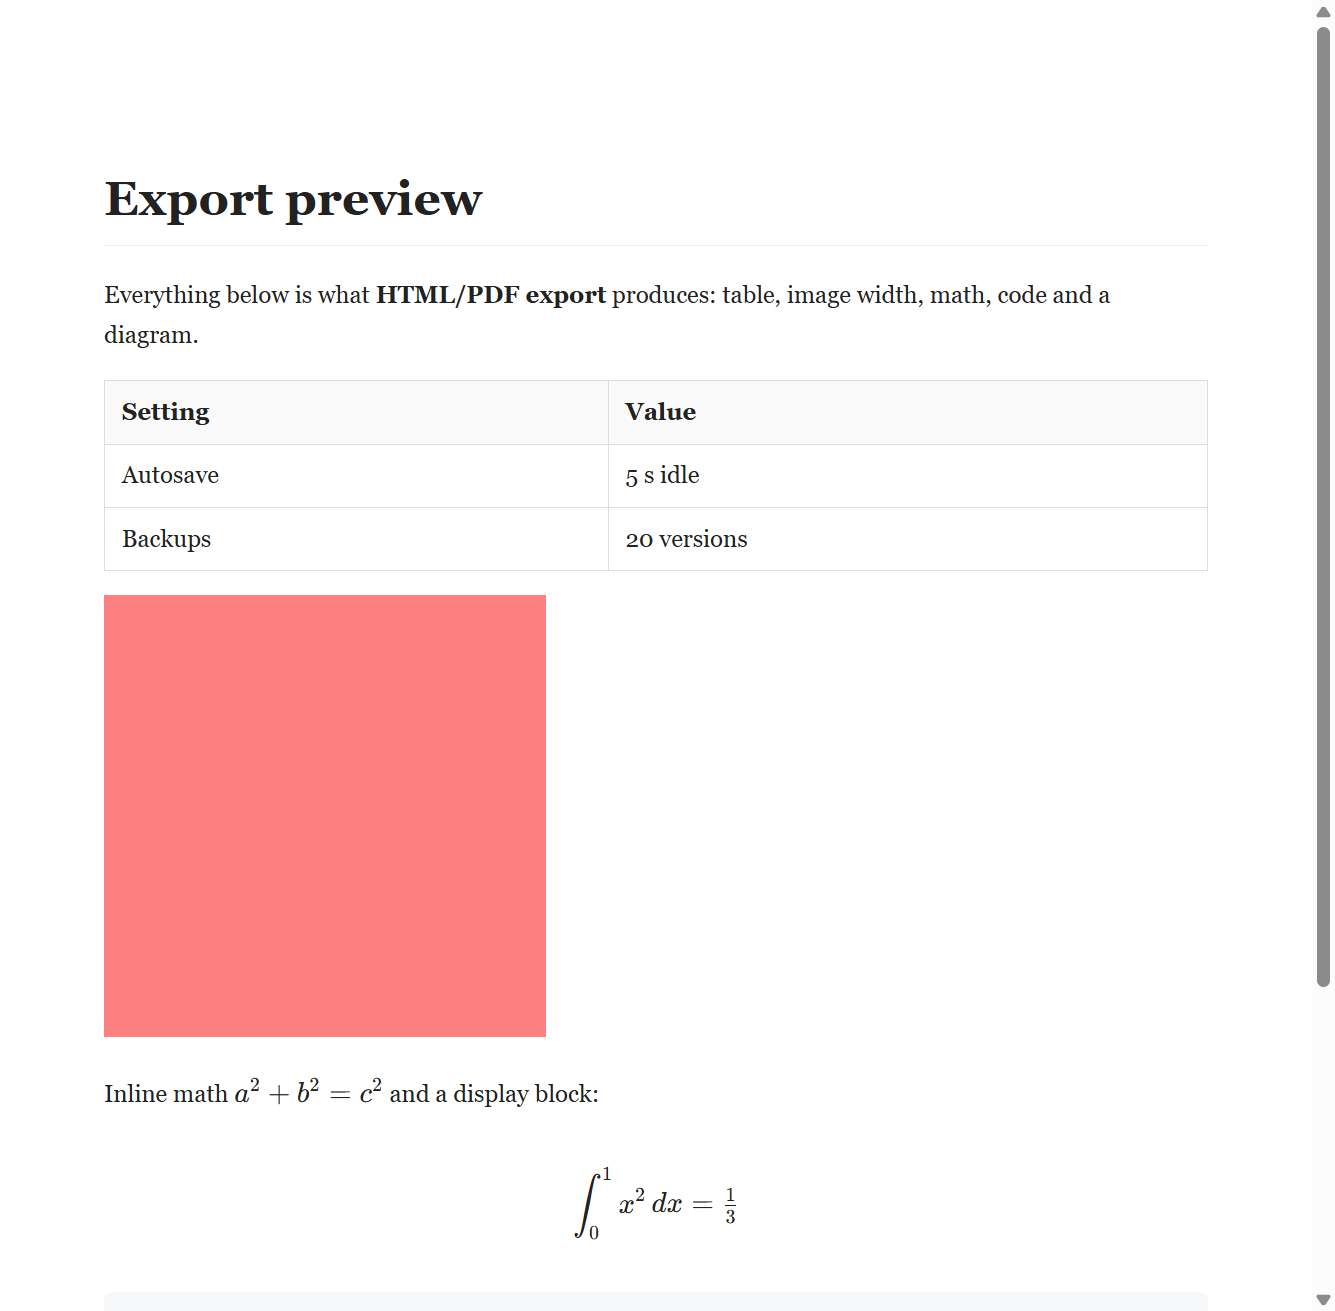
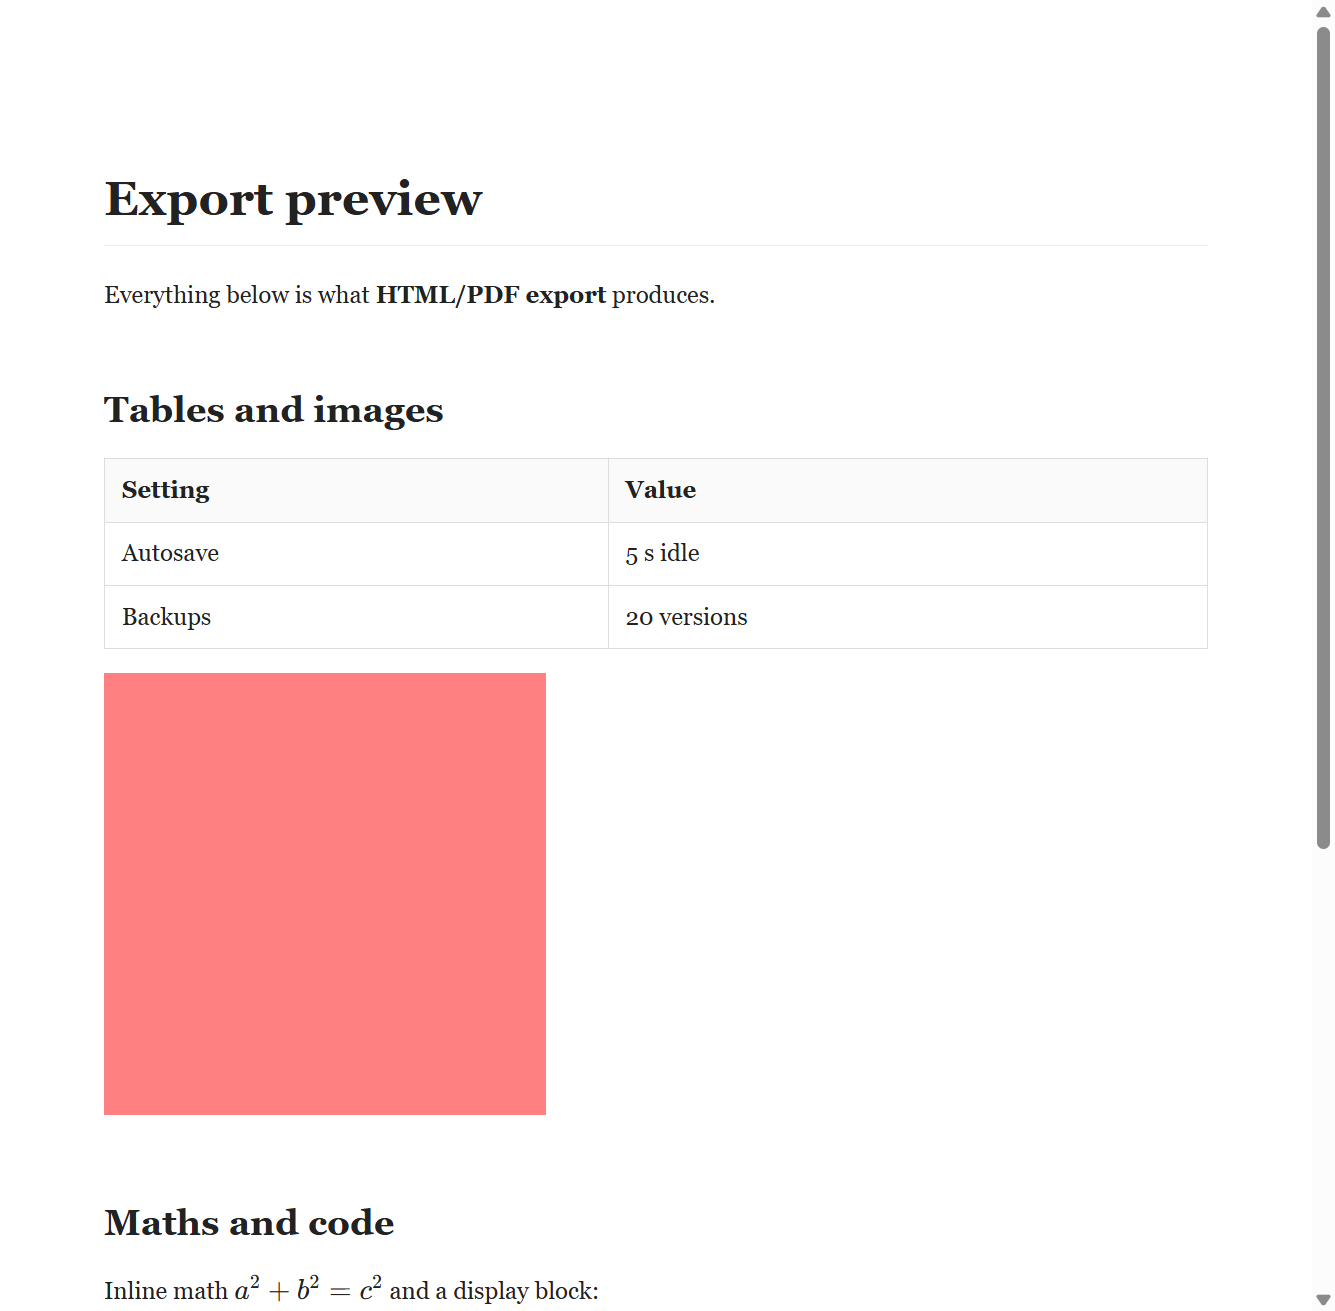
chore: release 1.54.0

diff --git a/scripts/shot-export.js b/scripts/shot-export.js
@@ -17,7 +17,9 @@ const image =
 const markdown = [
   '# Export preview',
   '',
-  'Everything below is what **HTML/PDF export** produces: table, image width, math, code and a diagram.',
+  'Everything below is what **HTML/PDF export** produces.',
+  '',
+  '## Tables and images',
   '',
   '| Setting | Value |',
   '| --- | --- |',
@@ -25,6 +27,8 @@ const markdown = [
   '| Backups | 20 versions |',
   '',
   '![pixel](' + image + ' "w=40%")',
+  '',
+  '## Maths and code',
   '',
   'Inline math $a^2 + b^2 = c^2$ and a display block:',
   '',
@@ -36,34 +40,56 @@ const markdown = [
   'const saved = writeDocument(file, contents);',
   fence,
   '',
+  '### A note on diagrams',
+  '',
   fence + 'mermaid',
   'graph LR;',
   '  write-->backup;',
   '  backup-->restore;',
   fence,
+    
 ].join('\n');
+
+// Mermaid cannot run here (no renderer bundle), so diagrams are documented by their fence in
+// these shots; the export test asserts the SVG path with a running app.
+async function capture(win, html, name, outDir) {
+  const file = path.join(os.tmpdir(), 'mdpad-export-' + name + '.html');
+  fs.writeFileSync(file, html, 'utf8');
+  await win.loadURL('file://' + file.replace(/\\/g, '/'));
+  await new Promise((resolve) => setTimeout(resolve, 600));
+  const image = await win.webContents.capturePage();
+  fs.writeFileSync(path.join(outDir, name), image.toPNG());
+  console.log('SHOT ' + name);
+}
 
 async function main() {
   const outDir = path.join(root, 'docs', 'images');
   fs.mkdirSync(outDir, { recursive: true });
+  const win = new BrowserWindow({ show: false, width: 900, height: 1200, webPreferences: { offscreen: false } });
 
-  // Mermaid cannot run here (no renderer bundle), so the diagram is documented by its fence in
-  // this shot; the export test asserts the SVG path with a running app.
   const html = exporter.toHtmlDocument(markdown, 'Export preview', {
     template: 'default',
     css: '',
     font: 'Georgia, "Noto Serif", serif',
     margin: 'normal',
   });
-  const file = path.join(os.tmpdir(), 'mdpad-export-shot.html');
-  fs.writeFileSync(file, html, 'utf8');
+  await capture(win, html, '10-export-page.png', outDir);
 
-  const win = new BrowserWindow({ show: false, width: 900, height: 1200, webPreferences: { offscreen: false } });
-  await win.loadURL('file://' + file.replace(/\\/g, '/'));
-  await new Promise((resolve) => setTimeout(resolve, 600));
-  const image2 = await win.webContents.capturePage();
-  fs.writeFileSync(path.join(outDir, '10-export-page.png'), image2.toPNG());
-  console.log('SHOT 10-export-page.png');
+  const tocHtml = exporter.toHtmlDocument(markdown, 'Export preview', {
+    template: 'toc',
+    css: '',
+    font: 'Georgia, "Noto Serif", serif',
+    margin: 'normal',
+  });
+  await capture(win, tocHtml, '11-export-toc.png', outDir);
+
+  const compactHtml = exporter.toHtmlDocument(markdown, 'Export preview', {
+    template: 'compact',
+    css: '',
+    font: 'Georgia, "Noto Serif", serif',
+    margin: 'narrow',
+  });
+  await capture(win, compactHtml, '12-export-compact.png', outDir);
   app.exit(0);
 }
 

diff --git a/src/main.js b/src/main.js
@@ -1082,6 +1082,7 @@ class Session {
         font: exportFontStack(),
         margin: readSettings().exportMargin || 'normal',
         baseDir: this.file ? path.dirname(this.file) : null,
+        tocTitle: t('export.contents', currentLang()),
       }),
       'utf8'
     );
@@ -10569,6 +10570,53 @@ async function runSmoke() {
       multiWindow.firstWindow.lang === 'zh-CN' &&
       typeof multiWindow.stillAlive === 'string',
     multiWindow
+  );
+
+  // 128. the TOC template links every heading and the title follows the UI language
+  const tocCheck = await (async () => {
+    const nl = String.fromCharCode(10);
+    const md = [
+      '# Book',
+      '',
+      '## First part',
+      '',
+      'text',
+      '',
+      '### Detail',
+      '',
+      'text',
+      '',
+      '## Second part',
+    ].join(nl);
+    const tocFile = path.join(dir, 'toc-source.md');
+    fs.writeFileSync(tocFile, md, 'utf8');
+    const session = sessions.get(win.webContents.id);
+    await session.loadDocument(tocFile);
+    await sleep(600);
+    session.contents = md;
+    // the export uses the saved template setting; switch it to toc for this check
+    await win.webContents.executeJavaScript("window.api.setSettings({ exportTemplate: 'toc' })");
+    await sleep(300);
+    const htmlPath = path.join(dir, 'toc.html');
+    await session.exportTo(htmlPath, 'html');
+    const html = fs.readFileSync(htmlPath, 'utf8');
+    await win.webContents.executeJavaScript("window.api.setSettings({ exportTemplate: 'default' })");
+    const hrefs = [...html.matchAll(/<a href="#([^"]+)"/g)].map((m) => m[1]);
+    const ids = [...html.matchAll(/<h[1-6] id="([^"]+)"/g)].map((m) => m[1]);
+    return {
+      hrefs,
+      ids,
+      title: (/<div class="toc-title">([^<]*)<\/div>/.exec(html) || [])[1] || '',
+      depths: [...html.matchAll(/<li class="toc-depth-(\d)"/g)].map((m) => m[1]),
+    };
+  })();
+  step(
+    'toc-template',
+    tocCheck.hrefs.length === 4 &&
+      tocCheck.hrefs.every((id) => tocCheck.ids.includes(id)) &&
+      tocCheck.title === 'Contents' &&
+      tocCheck.depths.join(',') === '1,2,3,2',
+    tocCheck
   );
 
   // 30k. the settings filter narrows the visible fields

diff --git a/src/exporter.js b/src/exporter.js
@@ -46,6 +46,7 @@ const TEMPLATE_CSS = `
 .toc-depth-3 { padding-left: 2rem; }
 .toc-depth-4, .toc-depth-5, .toc-depth-6 { padding-left: 3rem; }
 .toc a { color: #0b67c2; text-decoration: none; }
+.toc a:hover, .toc a:focus-visible { text-decoration: underline; }
 body[data-template="compact"] { padding: 1.6rem 1.2rem; font-size: 15px; line-height: 1.55; }
 body[data-template="compact"] h1, body[data-template="compact"] h2,
 body[data-template="compact"] h3 { margin: 1.2em 0 .4em; }
@@ -67,7 +68,7 @@ const escapeHtml = (s) =>
 const renderBody = (markdown, diagrams = null) => renderHtml(markdown, { diagrams });
 
 // Table of contents for the export templates; heading ids come from the renderer.
-function tocHtml(markdown) {
+function tocHtml(markdown, title = 'Contents') {
   const items = outline(markdown);
   if (!items.length) return '';
   const links = items
@@ -76,7 +77,7 @@ function tocHtml(markdown) {
         `<li class="toc-depth-${item.depth}"><a href="#${item.id}">${escapeHtml(item.text)}</a></li>`
     )
     .join('\n');
-  return `<nav class="toc"><div class="toc-title">Contents</div><ul>\n${links}\n</ul></nav>`;
+  return `<nav class="toc"><div class="toc-title">${escapeHtml(title)}</div><ul>\n${links}\n</ul></nav>`;
 }
 
 function sanitizeCss(css) {
@@ -89,9 +90,9 @@ function sanitizeCss(css) {
 function toHtmlDocument(
   markdown,
   title = 'Untitled',
-  { template = 'default', css = '', stats = null, diagrams = null, font = '', margin = 'normal', baseDir = null } = {}
+  { template = 'default', css = '', stats = null, diagrams = null, font = '', margin = 'normal', baseDir = null, tocTitle = 'Contents' } = {}
 ) {
-  const withToc = template === 'toc' ? tocHtml(markdown) : '';
+  const withToc = template === 'toc' ? tocHtml(markdown, tocTitle) : '';
   const html = `<!doctype html>
 <html lang="en">
 <head>

diff --git a/src/i18n.js b/src/i18n.js
@@ -1170,3 +1170,6 @@ Object.assign(DICT.zh, {
   'table.alignCenter': '居中',
   'table.alignRight': '右对齐',
 });
+
+Object.assign(DICT.en, { 'export.contents': 'Contents' });
+Object.assign(DICT.zh, { 'export.contents': '目录' });

diff --git a/docs/DEVELOPING.md b/docs/DEVELOPING.md
@@ -61,7 +61,7 @@ npm install            # deps + vendor assets
 npm start              # build renderer, open the window
 npm run dev            # esbuild --watch
 npm test               # 142 unit tests, no Electron
-npm run smoke          # 295 end-to-end checks against a real window
+npm run smoke          # 296 end-to-end checks against a real window
 npm run crash          # SIGKILL mid-edit, restart, verify draft recovery
 npm run restart-check  # clean quit, relaunch, verify windows/tabs came back
 npm run dist           # NSIS installer + portable exe
@@ -271,6 +271,18 @@ pattern carries a negative lookbehind so it does not swallow the closing `**` of
 guard (`looksLikeMarkdown`) parses a pasted block only on a strong signal, so prose and `#tag`
 stay literal.
 
+## Export templates
+
+`npm run shot-export` renders all three templates to `docs/images/10..12`. `tocHtml` reuses
+`outline()` so heading ids match the rendered document (duplicate titles get `-1` suffixes);
+the title is passed in as `tocTitle` so a Chinese UI exports `目录`.
+
+## Export templates
+
+`npm run shot-export` renders all three templates to `docs/images/10..12`. `tocHtml` reuses
+`outline()` so heading ids match the rendered document (duplicate titles get `-1` suffixes);
+the title is passed in as `tocTitle` so a Chinese UI exports the localised word for Contents.
+
 ## Multiple windows
 
 `broadcastSettings()` sends `settings:applied` to **all** windows after a settings write (the
@@ -329,3 +341,9 @@ the update *check* path is implemented and tested against a local feed.
 
 See [RELEASING.md](RELEASING.md) for the signing and update-feed steps that `npm run ship`
 cannot do on its own.
+
+## Export templates
+
+`npm run shot-export` renders all three templates to `docs/images/10..12`. `tocHtml` reuses
+`outline()` so heading ids match the rendered document (duplicate titles get `-1` suffixes); the
+title is passed in as `tocTitle` so a Chinese UI exports its own word for Contents.

diff --git a/README.md b/README.md
@@ -34,7 +34,7 @@ Or install the built artifact: `release/mdpad Setup <version>.exe`.
 
 ```
 npm test              155 unit tests
-npm run smoke         295 end-to-end checks (dev or packaged)
+npm run smoke         296 end-to-end checks (dev or packaged)
 npm run crash         SIGKILL -> restart -> draft recovery
 npm run restart-check clean quit -> relaunch -> two windows and their tabs restored
 npm run release-check build -> package -> packaged smoke -> crash -> portable
@@ -128,6 +128,12 @@ Typing markdown converts as you go: `# `, `- `, `1. `, `> ` and fences are block
 `**bold**`, `*italic*`, `~~strike~~`, ```code``` become marks on the closing delimiter.
 Pasting **plain text that is clearly markdown** (a fence, a table rule, a heading with a blank line,
 two or more list items) parses it; prose and a lone `#tag` stay literal.
+
+## Three export templates
+
+**default**, **compact** (tighter spacing, narrow margins) and **with contents** (a linked table
+of contents, localised, with page breaks before the body). Each has a rendered screenshot in
+`docs/images/` so the typography can be reviewed without opening a PDF.
 
 ## Export consistency
 

diff --git a/CHANGELOG.md b/CHANGELOG.md
@@ -1,5 +1,20 @@
 # Changelog
 
+## 1.54.0
+
+Export templates, seen and checked.
+
+- **All three templates are rendered to screenshots** (`npm run shot-export` now produces
+  `10-export-page.png`, `11-export-toc.png`, `12-export-compact.png`) and the two new ones are in
+  the user guide, so the typography can be reviewed without exporting anything.
+- **The table of contents is localised**: `tocHtml` takes a `tocTitle`, and the HTML export passes
+  the UI language, so a Chinese interface writes 目录 instead of Contents.
+- **TOC links are verifiable**: the smoke test exports with the `toc` template and asserts four
+  links, each resolving to a heading id, the depth order `1,2,3,2`, and the title.
+- TOC links gained a hover/focus underline. `tocHtml` reuses `outline()`, which already deduplicates
+  repeated headings (`notes`, `notes-1`), so anchors never collide.
+- 296 smoke checks (one new: `toc-template`), 155 unit tests.
+
 ## 1.53.0
 
 Windows follow each other.

diff --git a/docs/USER_GUIDE.md b/docs/USER_GUIDE.md
@@ -327,6 +327,18 @@ dialog: **Overwrite** replaces the disk version with yours, and closing it keeps
 editor (still unsaved) so you can copy it or save under another name. Autosave stays dirty and
 raises the "changed on disk" banner rather than overwriting.
 
+## Export templates
+
+| Template | Look |
+| --- | --- |
+| **default** | regular margins and line height |
+| **compact** | tighter spacing, more text per page |
+| **with contents** | adds a linked table of contents page, with the title in your UI language |
+
+![Table of contents template](images/11-export-toc.png)
+
+![Compact template](images/12-export-compact.png)
+
 ## What each format keeps
 
 | | HTML | PDF | Word | EPUB |
